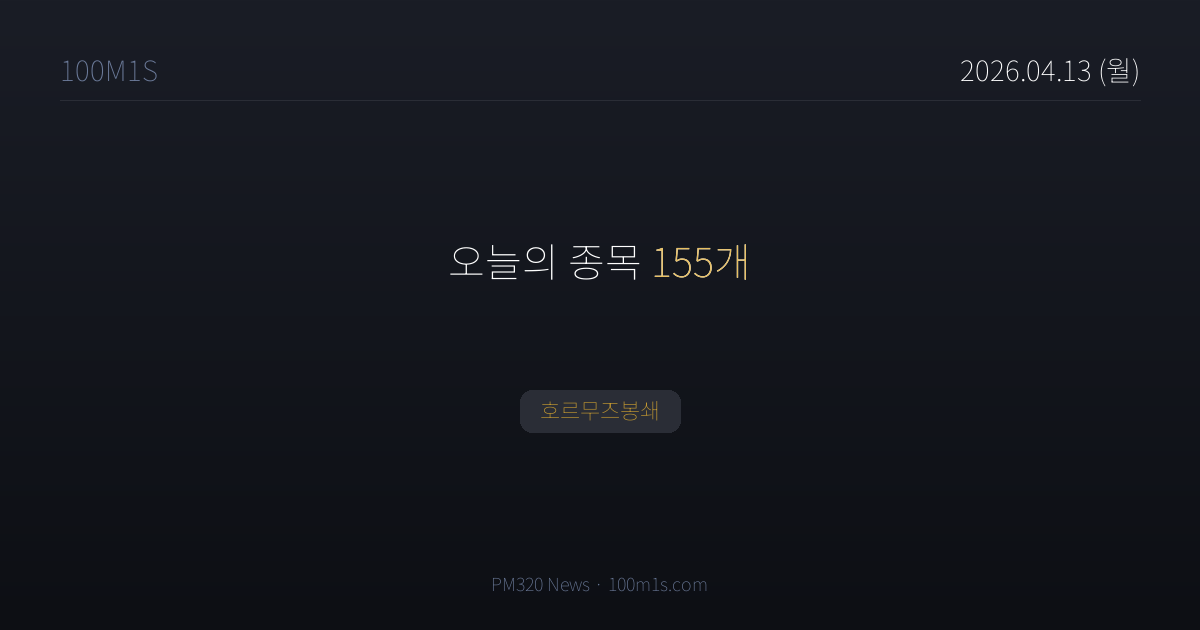
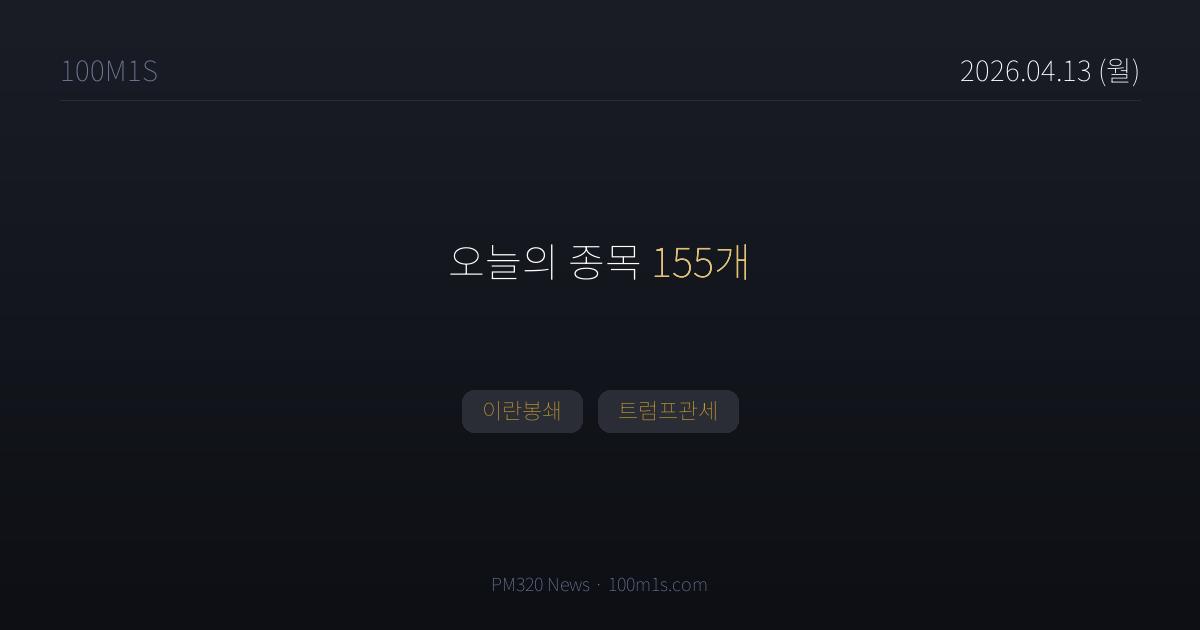
chore(news): 2026-04-13T21:55 pipeline

Changed region(s): [[0.37, 0.6032, 0.6167, 0.6937]]

diff --git a/news/2026-04-13.html b/news/2026-04-13.html
@@ -4,7 +4,7 @@
 <meta charset="UTF-8">
 <title>4월 13일 (월) 뉴스 — 100M1S</title>
 <meta property="og:title" content="4월 13일 (월) · 종목 155개">
-<meta property="og:description" content="호르무즈봉쇄">
+<meta property="og:description" content="이란봉쇄, 트럼프관세">
 <meta property="og:image" content="https://100m1s.com/og/2026-04-13.png">
 <meta property="og:image:width" content="1200">
 <meta property="og:image:height" content="630">
